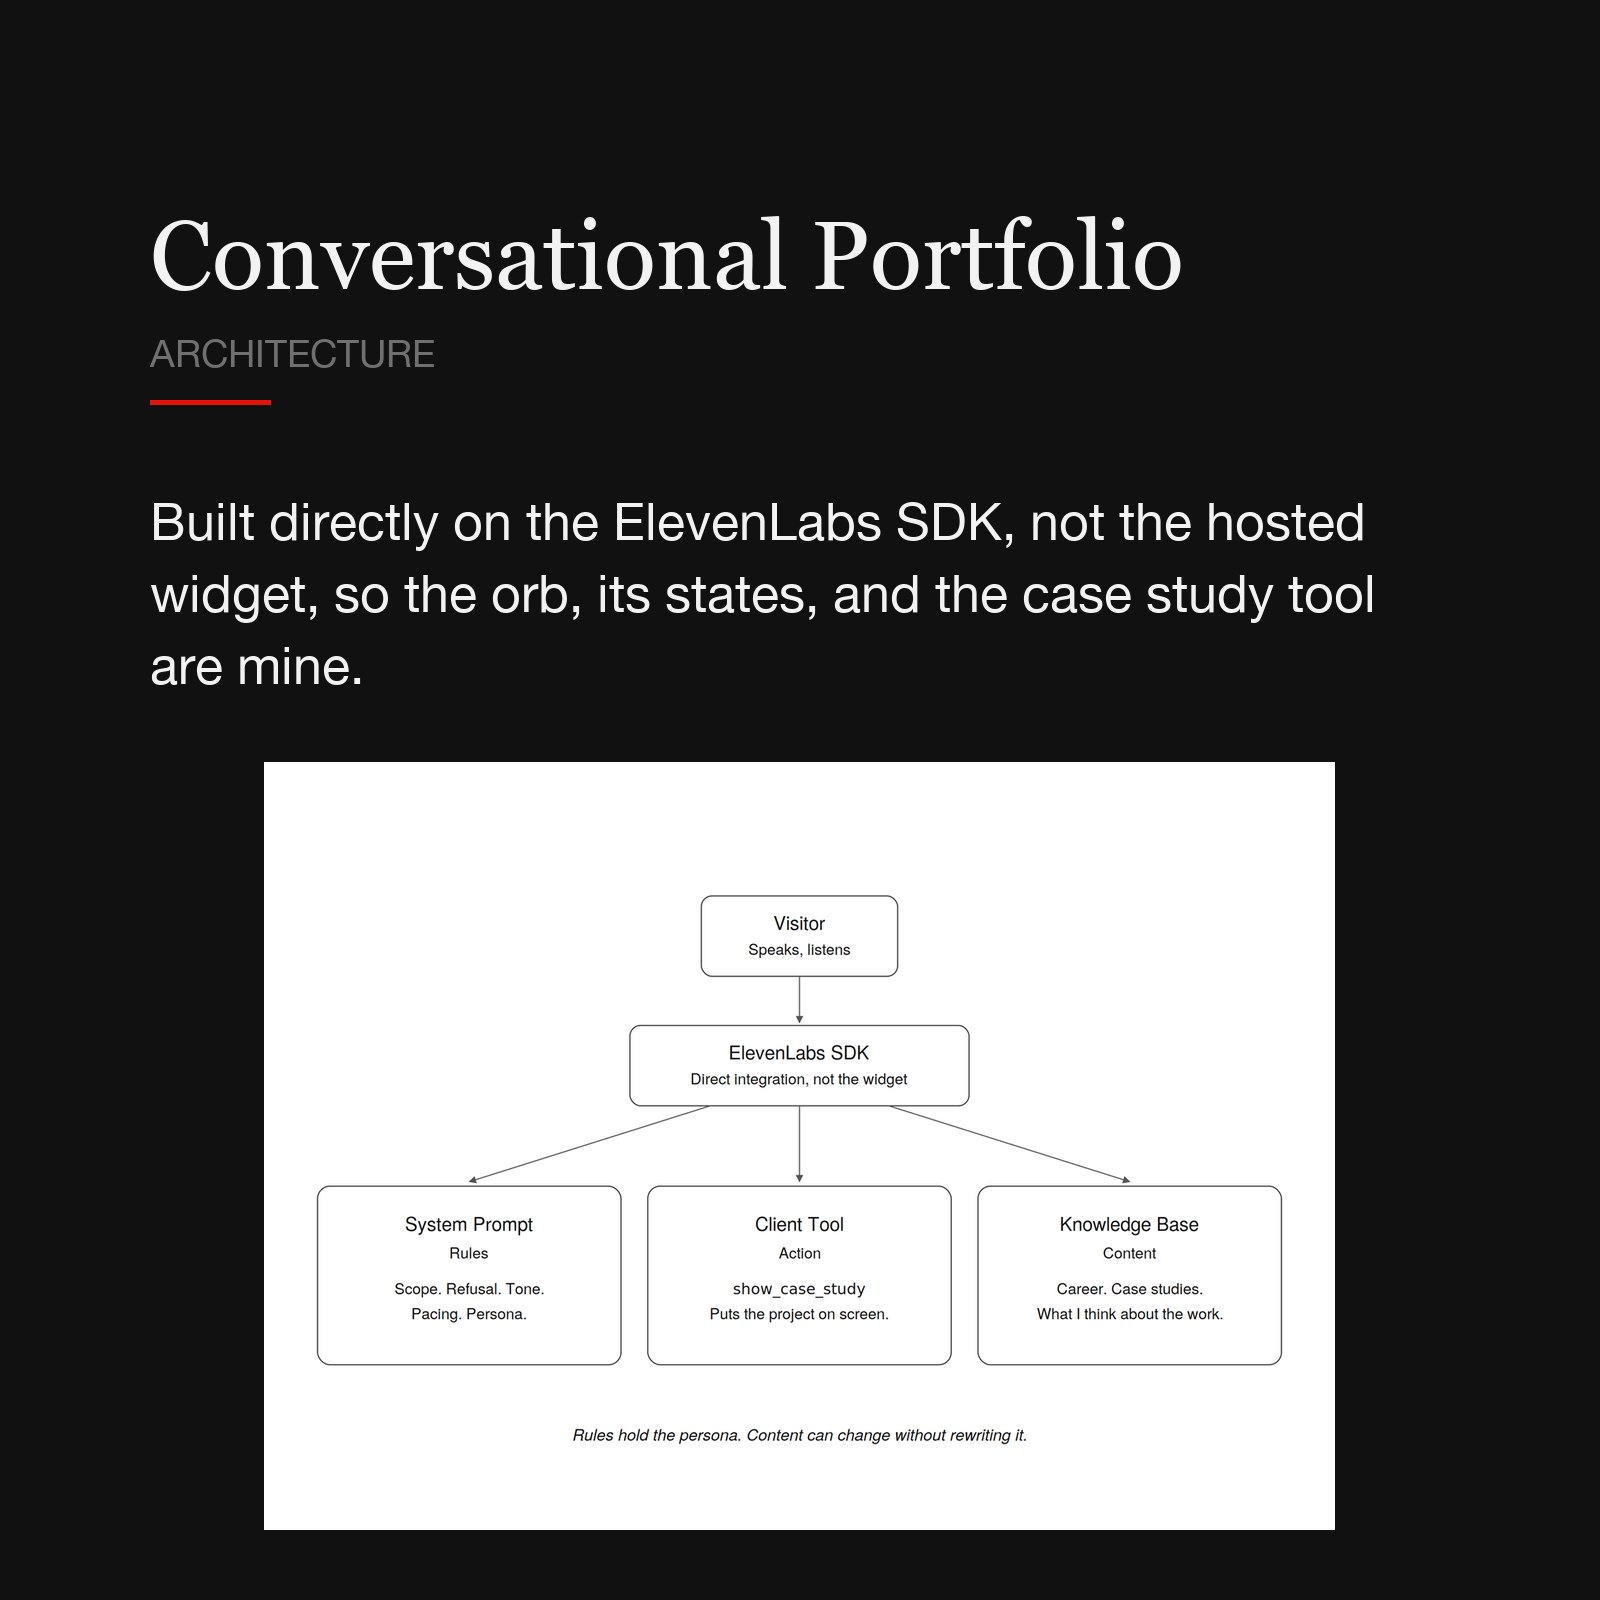
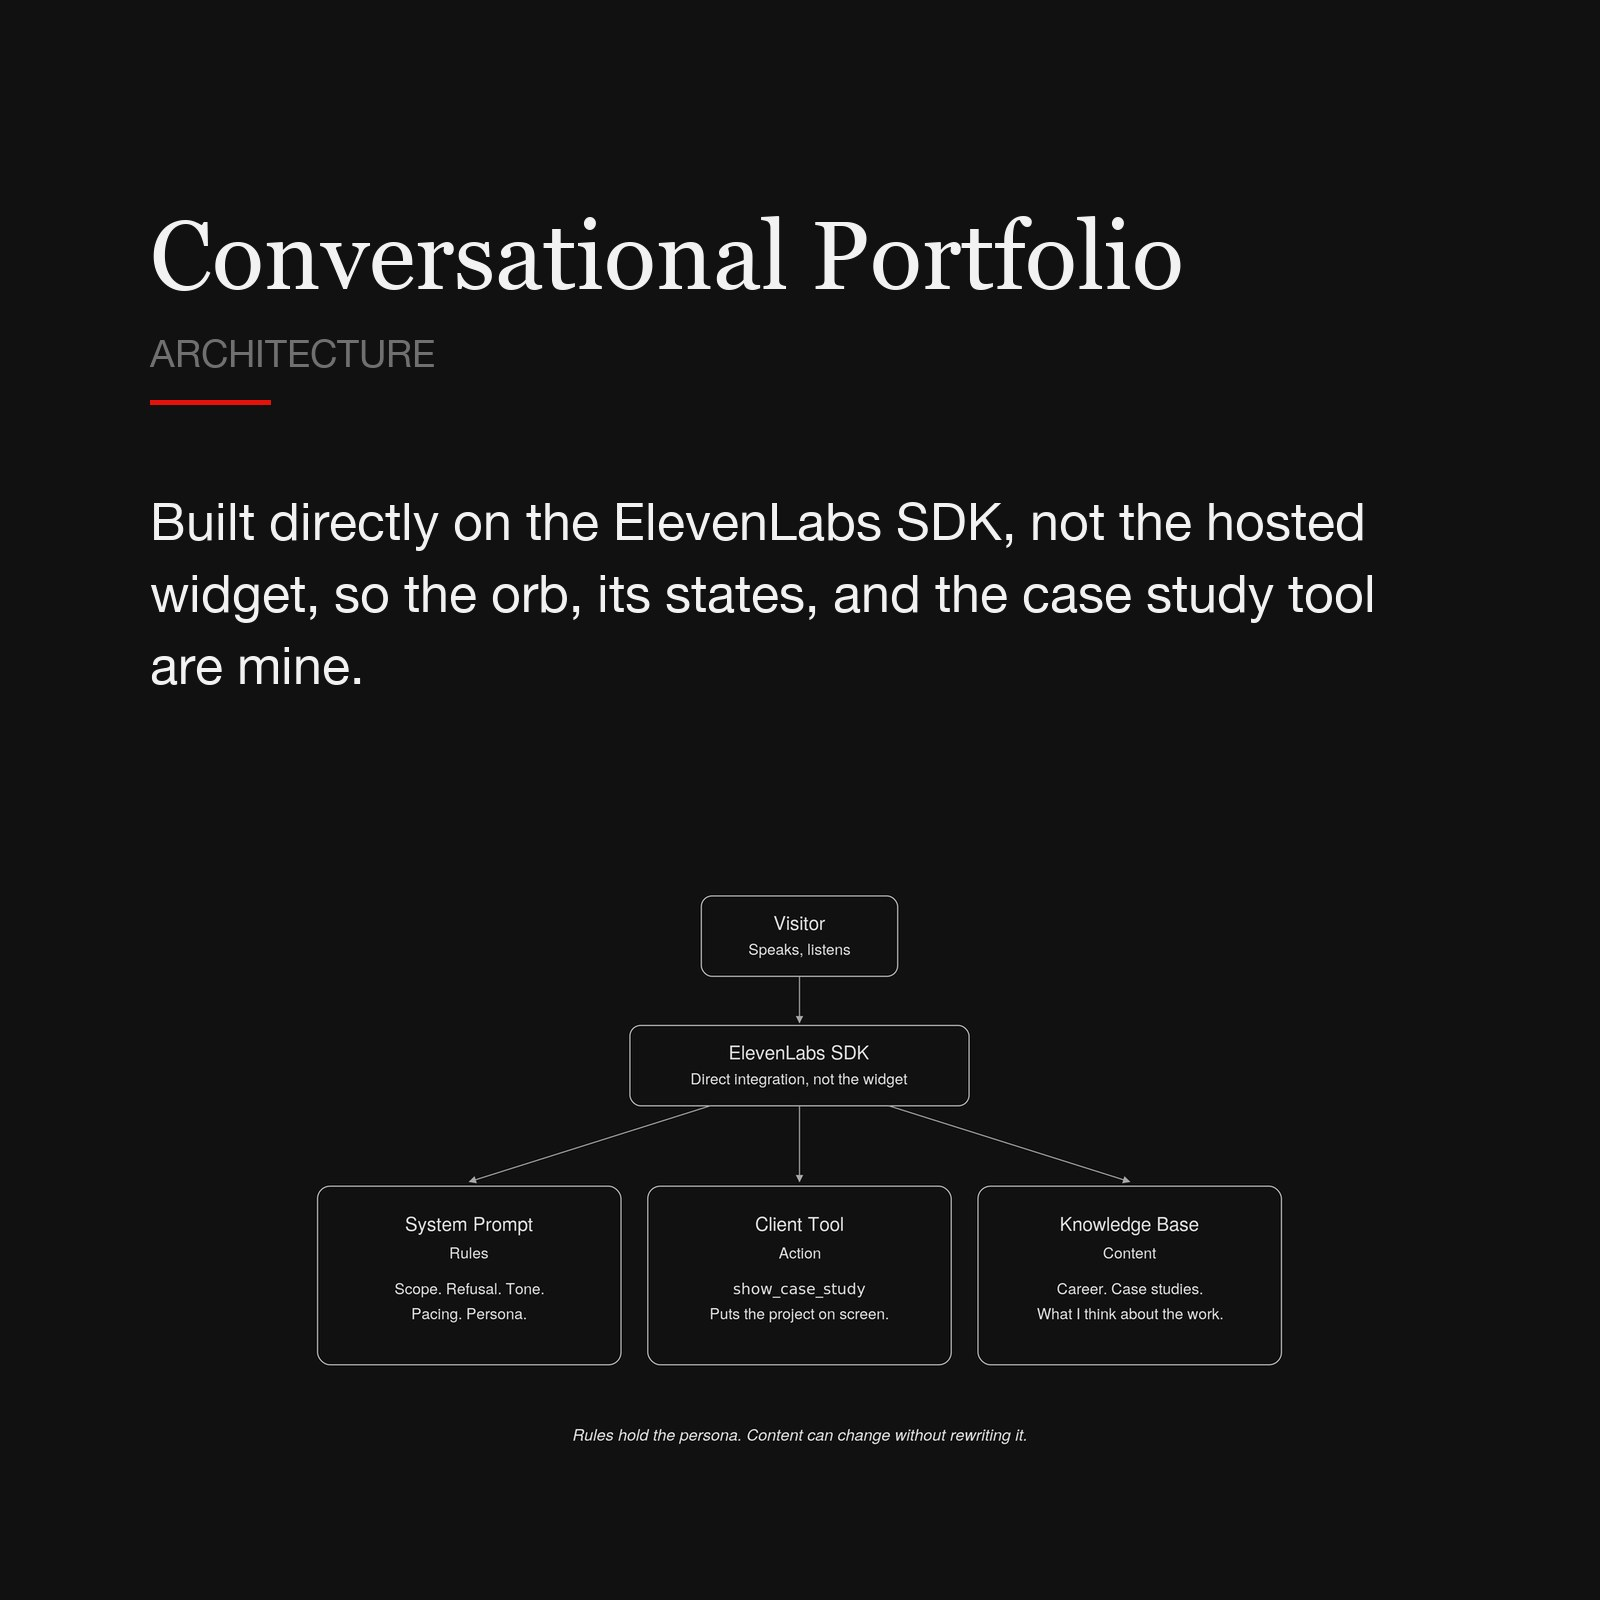
Portfolio architecture diagram: inverted to dark

diff --git a/bullish/1on1/sw.js b/bullish/1on1/sw.js
@@ -1,7 +1,7 @@
 // Saves the whole meeting kit on first visit so it opens with no internet.
 // Bump VERSION whenever a file changes.
 importScripts('files.js');
-var VERSION = 'v44';
+var VERSION = 'v45';
 var CACHE = 'bullish-1on1-' + VERSION;
 
 function tell(msg) {
